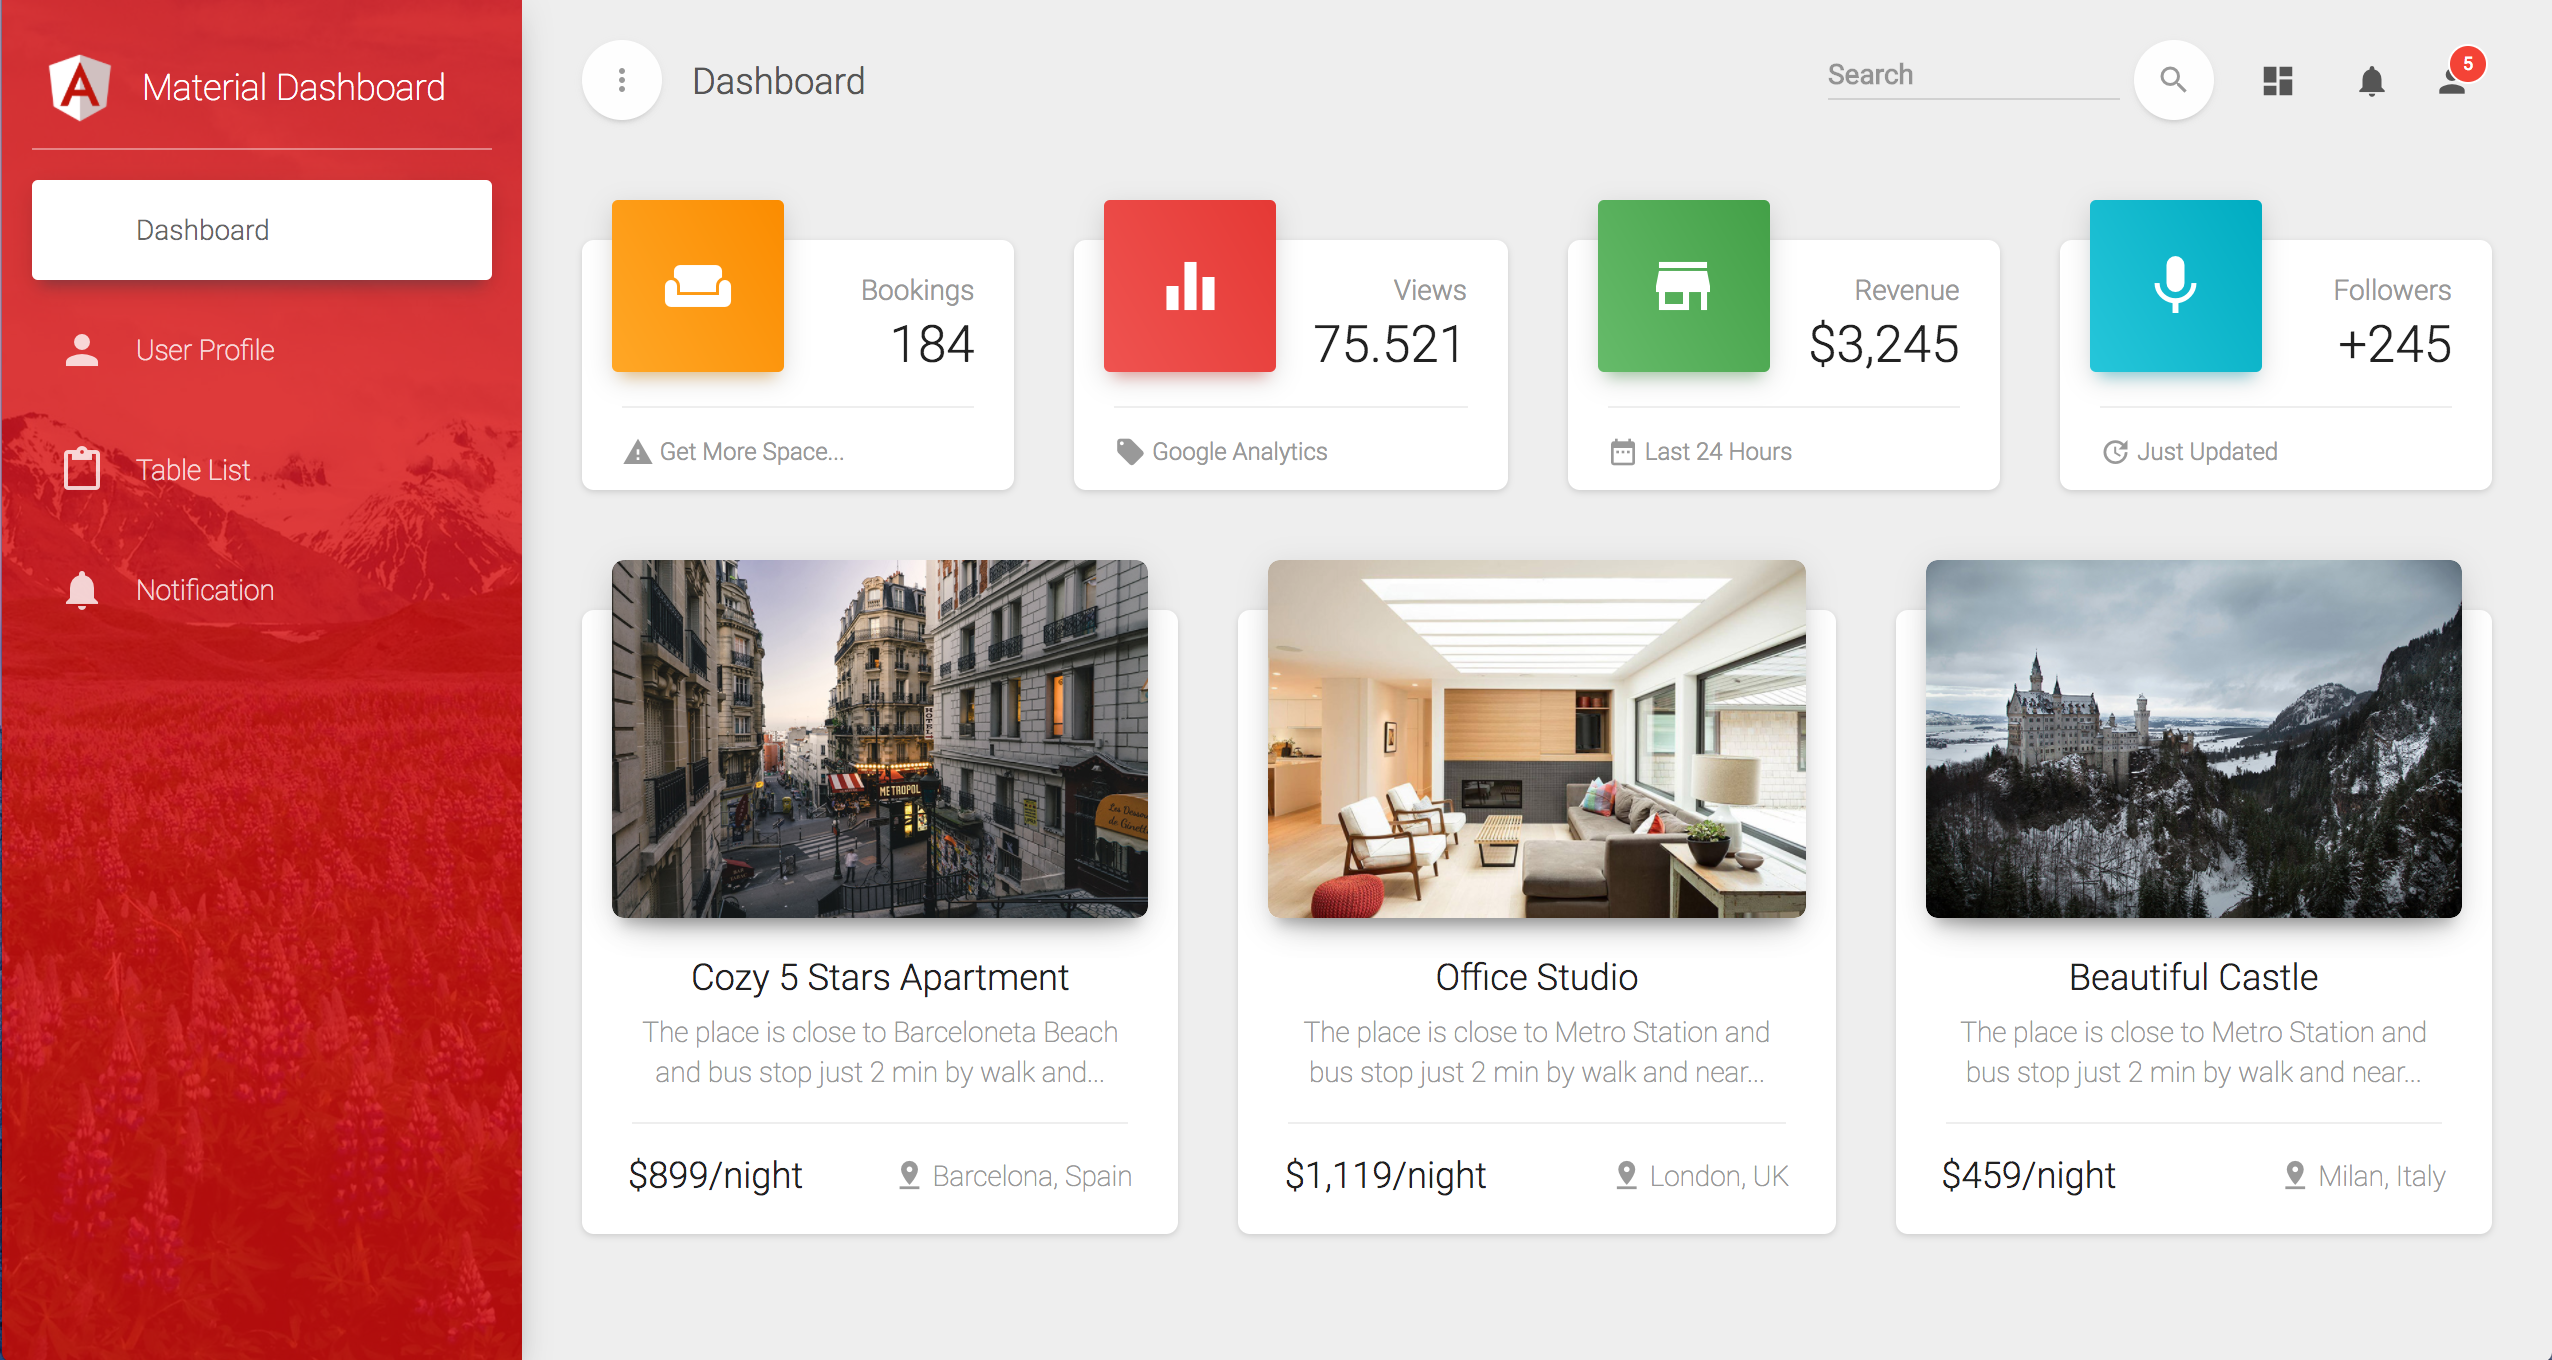
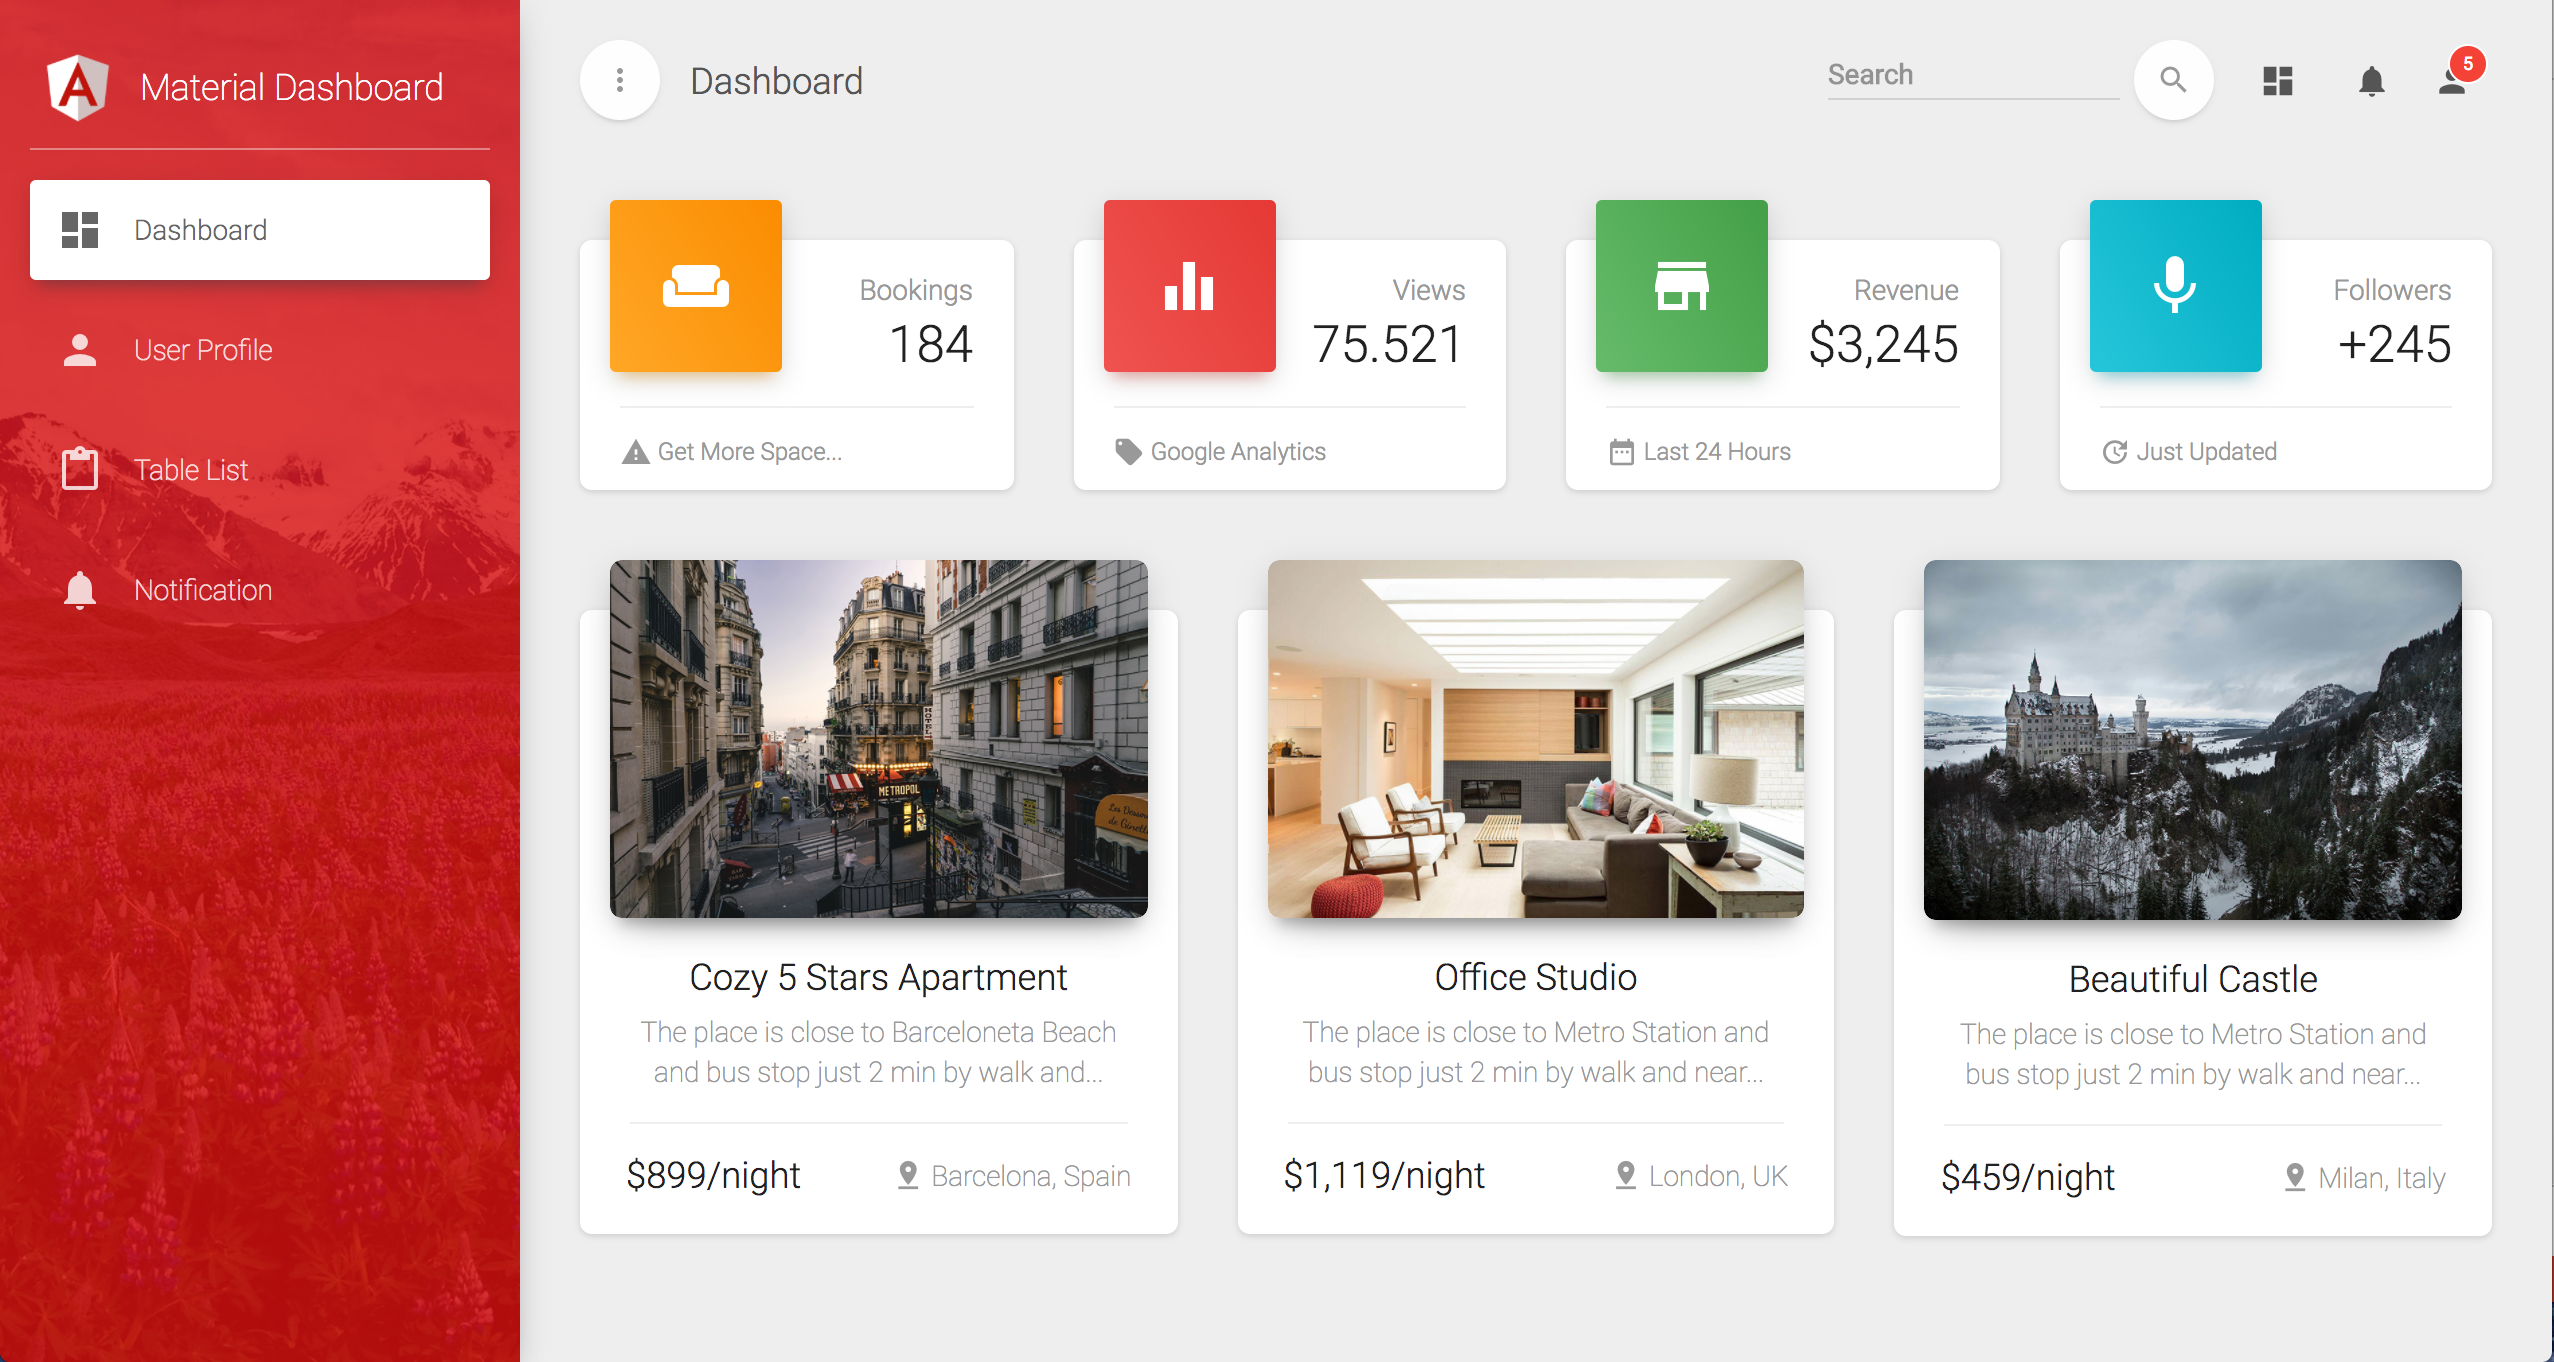
fix side bar issue

diff --git a/src/app/sidebar/sidebar.component.html b/src/app/sidebar/sidebar.component.html
@@ -4,17 +4,17 @@
     <p>Material Dashboard</p>
   </div>
   <ul class="nav links">
-    <li routerLinkActive="route-active" class="route">
-      <a routerLink="/home"><i class="material-icons">dashboard</i><p>Dashboard</p></a>
+    <li routerLinkActive #dashboard="routerLinkActive" [ngClass]="dashboard.isActive ? 'route-active route' : 'route hover'" [routerLinkActiveOptions]="{exact: true}">
+      <a routerLink="/"><i class="material-icons" [ngStyle]="{color: dashboard.isActive ? 'rgba(0,0,0,.6)' : 'rgba(255, 255, 255, 0.8)'}">dashboard</i><p>Dashboard</p></a>
     </li>
-    <li routerLinkActive="route-active" class="route">
-      <a routerLink="/profile"><i class="material-icons">person</i><p>User Profile</p></a>
+    <li routerLinkActive #profile="routerLinkActive" [ngClass]="profile.isActive ? 'route-active route' : 'route hover'">
+      <a routerLink="/profile"><i class="material-icons" [ngStyle]="{color: profile.isActive ? 'rgba(0,0,0,.6)' : 'rgba(255, 255, 255, 0.8)'}">person</i><p>User Profile</p></a>
     </li>
-    <li routerLinkActive="route-active" class="route">
-      <a routerLink="/table"><i class="material-icons">content_paste</i><p>Table List</p></a>
+    <li routerLinkActive #table="routerLinkActive" [ngClass]="table.isActive ? 'route-active route' : 'route hover'">
+      <a routerLink="/table"><i class="material-icons" [ngStyle]="{color: table.isActive ? 'rgba(0,0,0,.6)' : 'rgba(255, 255, 255, 0.8)'}">content_paste</i><p>Table List</p></a>
     </li>
-    <li routerLinkActive="route-active" class="route">
-      <a routerLink="/notification"><i class="material-icons">notifications</i><p>Notification</p></a>
+    <li routerLinkActive #notification="routerLinkActive" [ngClass]="notification.isActive ? 'route-active route' : 'route hover'">
+      <a routerLink="/notification"><i class="material-icons" [ngStyle]="{color: notification.isActive ? 'rgba(0,0,0,.6)' : 'rgba(255, 255, 255, 0.8)'}">notifications</i><p>Notification</p></a>
     </li>
   </ul>
 </div>

diff --git a/src/app/app.routes.ts b/src/app/app.routes.ts
@@ -8,8 +8,8 @@ import { TableComponent } from './dashboard/table/table.component';
 import { NotificationComponent } from './dashboard/notification/notification.component';
 
 const routes: Routes = [
-  // {path: '', component: HomeComponent},
-  {path: 'home', component: HomeComponent},
+  {path: '', component: HomeComponent},
+  // {path: 'home', component: HomeComponent},
   {path: 'profile', component: ProfileComponent},
   {path: 'table', component: TableComponent},
   {path: 'notification', component: NotificationComponent}

diff --git a/src/app/sidebar/sidebar.component.css b/src/app/sidebar/sidebar.component.css
@@ -53,7 +53,7 @@
   font-weight: 100;
 }
 
-.route:hover{
+.hover:hover{
   background-color: rgba(255,255,255,.1);
   transition: all 400ms;
   border-radius: 3px;
@@ -70,7 +70,7 @@
   border-radius: 3px;
 }
 
-.route-active > a > p, i{
+.route-active p, i{
   color: rgba(0,0,0,.6);
   font-weight: 300;
 }
